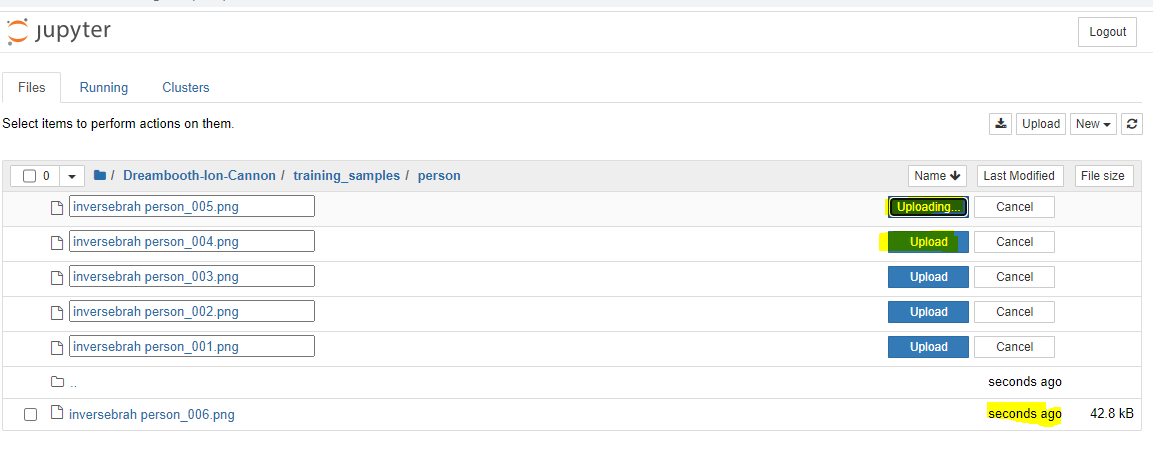
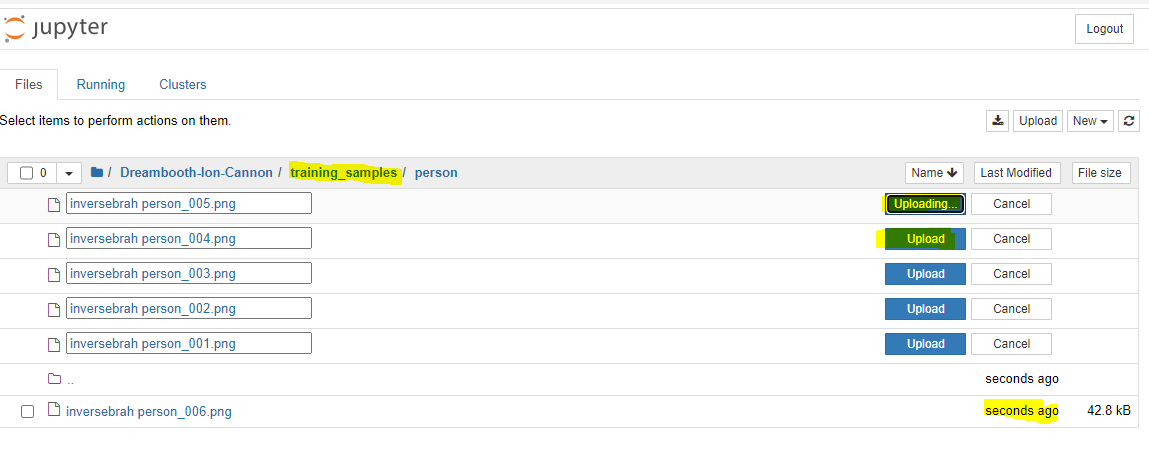
Update README.md, add highlighting to a step image

diff --git a/README.md b/README.md
@@ -168,9 +168,24 @@ Select all appropriate files from the upload file-system modal that pops up, and
 
 ### Step 14
 
+You're going to have to click `Upload` on every single image. Sorry!
+
+There might be a delay in upload depending on the size of the underlying file, but you'll know you're done when each of the files has a time entry under Last Modified.
+
+Once that's done, click on `training_samples` in the filepath above the images to navigate back to that directory.
+
 ![img.png](ion-cannon-images/Step14.PNG)
-![img.png](ion-cannon-images/Step14.PNG)
+
+### Step 15
+
+No, seriously, you have to delete that .txt file that says to do it (unless you decided to jump the gun and delete it straight away).
+
+Select it, delete it.
+
 ![img.png](ion-cannon-images/Step15.PNG)
+
+### Step 16
+
 ![img.png](ion-cannon-images/Step16.PNG)
 ![img.png](ion-cannon-images/Step17.PNG)
 ![img.png](ion-cannon-images/Step18.PNG)
